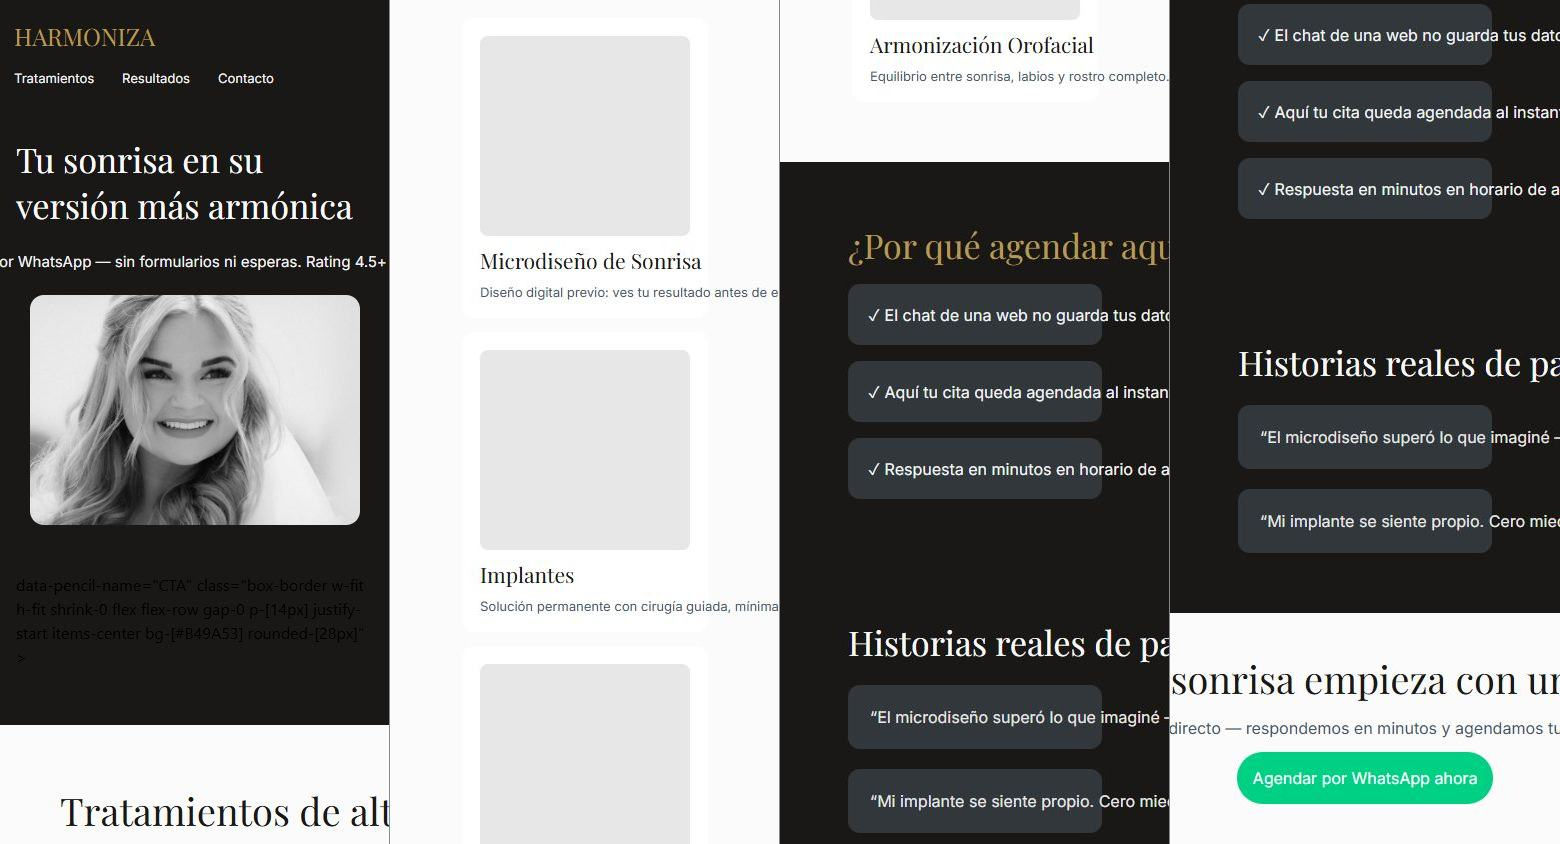
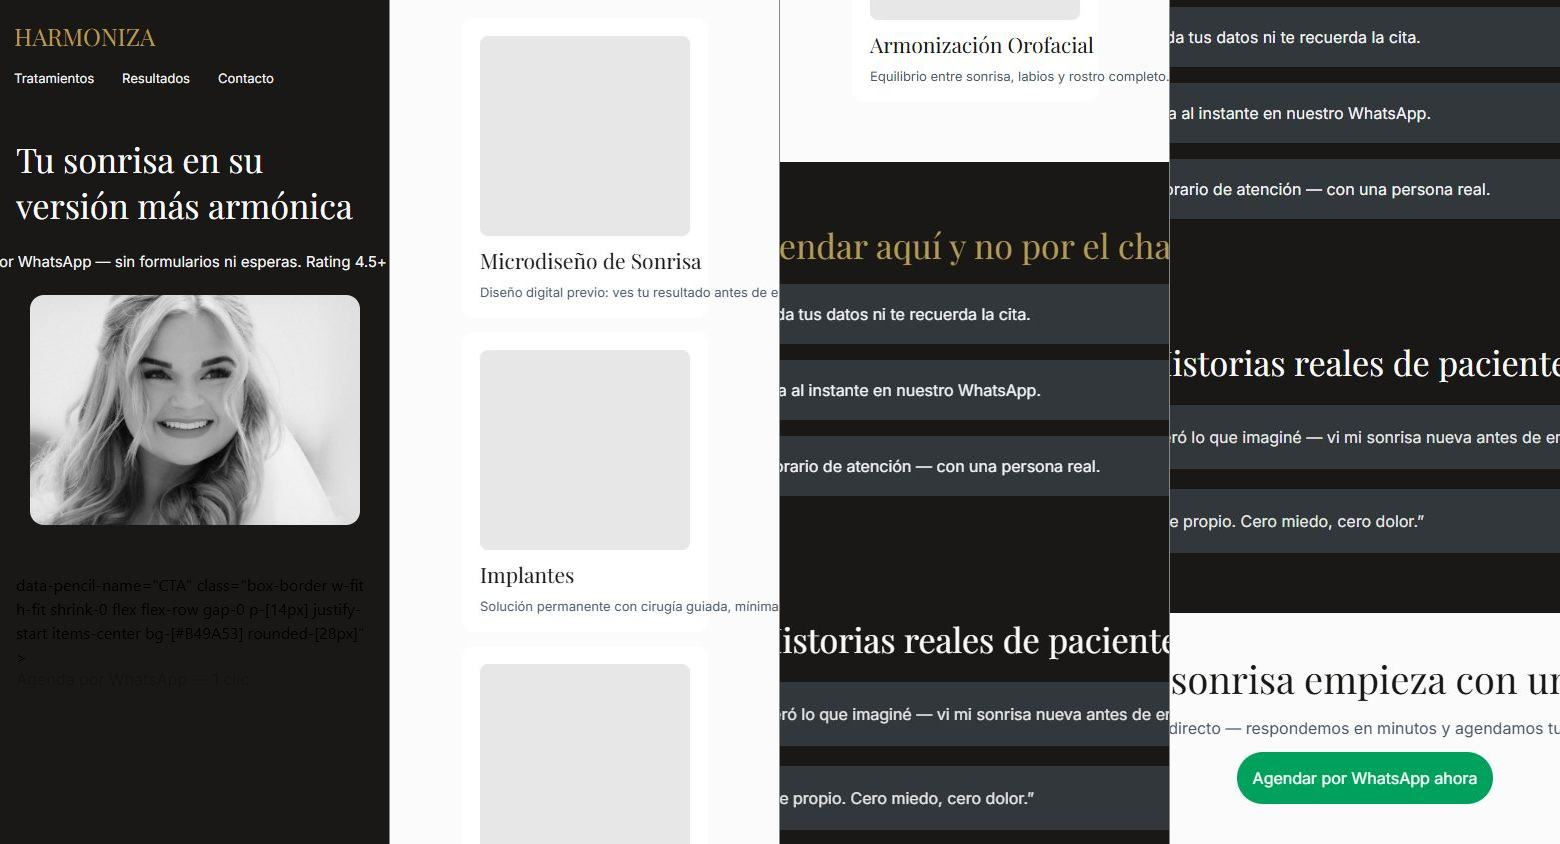
Harmoniza V4: contraste heredado, 6 imgs (3 reales marca + hero + 2 dental), motion

diff --git a/harmoniza-odontologia-estetica/index.html b/harmoniza-odontologia-estetica/index.html
@@ -111,8 +111,8 @@ img{max-width:100%;height:auto}
           data-pencil-name="HeroImg"
           class="box-border w-[1100px] h-[400px] shrink-0 flex flex-row gap-0 justify-start items-start bg-[url('https://images.unsplash.com/photo-1708127851232-d1a1bcbd5449?crop=entropy&amp;cs=tinysrgb&amp;fit=max&amp;fm=jpg&amp;ixid=M3w4NDM0ODN8MHwxfHJhbmRvbXx8fHx8fHx8fDE3OTIwMDU3NTd8&amp;ixlib=rb-4.1.0&amp;q=80&amp;w=1080')] bg-no-repeat bg-cover bg-center rounded-[14px]"
         ></div>
-        <a href="https://wa.me/573150596255?text=Hola%20Harmoniza%2C%20quiero%20agendar%20mi%20valoraci%C3%B3n" target="_blank" rel="noopener" style="text-decoration:none;display:block"><div
-     <a href="https://wa.me/573150596255?text=Hola%20Harmoniza%2C%20quiero%20agendar%20mi%20valoraci%C3%B3n" target="_blank" rel="noopener" style="text-decoration:none;display:block">     data-pencil-name="CTA"
+        <a href="https://wa.me/573150596255?text=Hola%20Harmoniza%2C%20quiero%20agendar%20mi%20valoraci%C3%B3n" target="_blank" rel="noopener" style="text-decoration:none;display:block;color:inherit"><div
+     <a href="https://wa.me/573150596255?text=Hola%20Harmoniza%2C%20quiero%20agendar%20mi%20valoraci%C3%B3n" target="_blank" rel="noopener" style="text-decoration:none;display:block;color:inherit">     data-pencil-name="CTA"
           class="box-border w-fit h-fit shrink-0 flex flex-row gap-0 p-[14px] justify-start items-center bg-[#B49A53] rounded-[28px]"
         >
           <div
@@ -140,10 +140,7 @@ img{max-width:100%;height:auto}
             data-pencil-name="Card-Microdiseño de Sonrisa"
             class="box-border [flex:1_1_0] h-fit flex flex-col gap-[10px] p-[18px] justify-start items-start bg-[#FFFFFF] rounded-[12px]"
           >
-            <div
-              data-pencil-name="Img"
-              class="box-border w-full h-[200px] shrink-0 flex flex-row gap-0 justify-start items-start bg-[#E7E7E7] rounded-[8px]"
-            ></div>
+            <img src="https://images.unsplash.com/photo-1588776814546-1ffcf47267a5?w=800&q=80&auto=format&fit=crop" alt="Tratamiento dental Harmoniza" style="width:100%;height:200px;object-fit:cover;border-radius:8px">
             <div
               class="text-[21px]/[normal] box-border text-[#1A1816] font-['Playfair_Display',system-ui,sans-serif] font-normal text-left [white-space:nowrap]"
             >
@@ -159,10 +156,7 @@ img{max-width:100%;height:auto}
             data-pencil-name="Card-Implantes"
             class="box-border [flex:1_1_0] h-fit flex flex-col gap-[10px] p-[18px] justify-start items-start bg-[#FFFFFF] rounded-[12px]"
           >
-            <div
-              data-pencil-name="Img"
-              class="box-border w-full h-[200px] shrink-0 flex flex-row gap-0 justify-start items-start bg-[#E7E7E7] rounded-[8px]"
-            ></div>
+            <img src="https://images.unsplash.com/photo-1601362840469-51e4d8d58785?w=800&q=80&auto=format&fit=crop" alt="Tratamiento dental Harmoniza" style="width:100%;height:200px;object-fit:cover;border-radius:8px">
             <div
               class="text-[21px]/[normal] box-border text-[#1A1816] font-['Playfair_Display',system-ui,sans-serif] font-normal text-left [white-space:nowrap]"
             >
@@ -178,10 +172,7 @@ img{max-width:100%;height:auto}
             data-pencil-name="Card-Armonización Orofacial"
             class="box-border [flex:1_1_0] h-fit flex flex-col gap-[10px] p-[18px] justify-start items-start bg-[#FFFFFF] rounded-[12px]"
           >
-            <div
-              data-pencil-name="Img"
-              class="box-border w-full h-[200px] shrink-0 flex flex-row gap-0 justify-start items-start bg-[#E7E7E7] rounded-[8px]"
-            ></div>
+            <img src="clinica-1.jpg" alt="Tratamiento dental Harmoniza" style="width:100%;height:200px;object-fit:cover;border-radius:8px">
             <div
               class="text-[21px]/[normal] box-border text-[#1A1816] font-['Playfair_Display',system-ui,sans-serif] font-normal text-left [white-space:nowrap]"
             >
